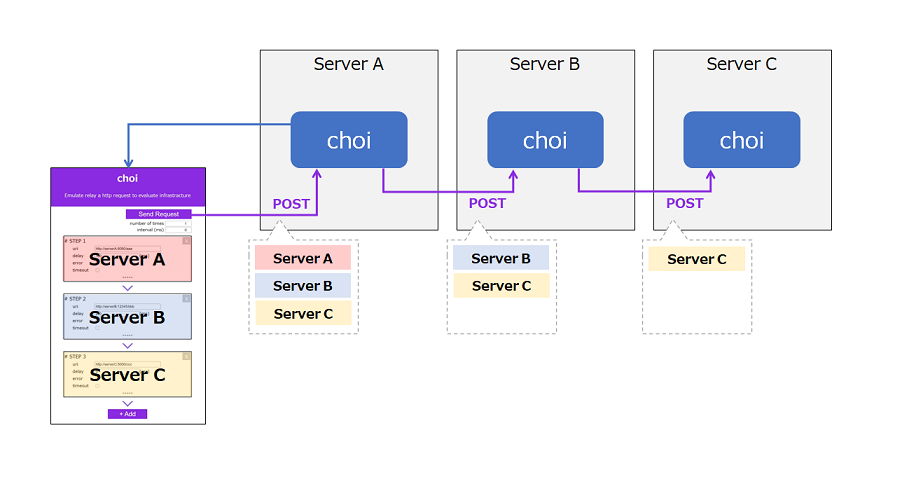
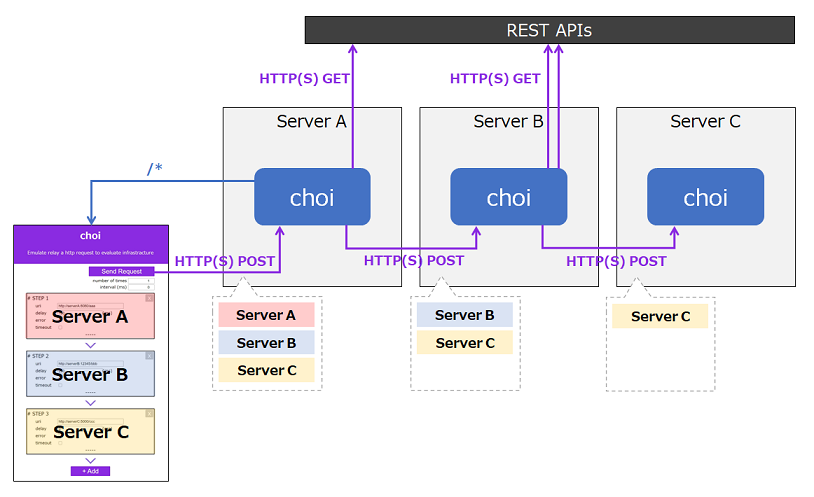
enable to use HTTPS and enable to call REST API from choi

diff --git a/public/setting.html b/public/setting.html
@@ -11,13 +11,13 @@
 <body>
   <div class="head">
     <h1>choi</h1>
-    <p>Emulate relay a http request to evaluate infrastracture</p>
+    <p>Emulate your App to relay a http(s) request to evaluate infrastracture</p>
   </div>
   <!-- Vue html -->
   <div class= "main" id="app">
     <!-- Send Request button and params -->
     <div class="startbuttonarea">
-      <span>{{statusMessage}}</span>
+      <span v-if="totalTime" class="resultcolor">{{totalTime}}</span><span>{{statusMessage}}</span>
       <button v-if="processing" class="startbutton"><div class="loader"></div></button>
       <button v-if="!processing" class="startbutton" v-on:click="startChoi">Send Request</button>
       <div class="paramtitle">number of times <input class="paramfield" type="number" v-model="param.num" placeholder="the number of times"/></div>
@@ -32,13 +32,40 @@
           <span class="deletebuttonarea"><button class="deletebutton" v-on:click="deleteRelay(relay.id)">x</button></span>
         </div>
         <table class="relaysetting">
-          <tr><td class="urltitle">uri</td><td><input class="urlinput" v-model="relay.url" placeholder="http://host:port/path"/></td></td></tr>
-          <tr v-if="!relay.timeout"><td>delay</td><td><input v-model="relay.delay" placeholder="delay time ex) 3000"/>(ms)</td></td></tr>
-          <tr v-if="!relay.timeout"><td>error</td><td><input name="error" type="checkbox" v-model="relay.error"/></td></td></tr>
-          <tr v-if="relay.error"><td>&nbsp;</td><td>code <input name="errorcode" type="number" v-model="relay.code"/></td></td></tr>
-          <tr v-if="!relay.error"><td>timeout</td><td><input name="timeout" type="checkbox" v-model="relay.timeout"/></td></td></tr>
+          <tr><td class="urltitle">uri</td><td colspan=5><input class="urlinput" v-model="relay.url" placeholder="ex) http://host:port/path"/></td></td></tr>
+          <tr>
+            <td>options</td>
+            <td><button class="addcallbutton" v-on:click="addGETfiled(relay.id)">+ call GET</button>,</td> 
+            <td v-if="!relay.timeout">delay:<input class="numberinput" v-model="relay.delay" placeholder="ex) 200"/>(ms),</td>
+            <td v-if="!relay.timeout">error:<input name="error" type="checkbox" v-model="relay.error"/><span v-if="!relay.error">,</span></td>
+            <td v-if="relay.error">code:<input class="numberinput" name="errorcode" type="number" v-model="relay.code"/></td>
+            <td v-if="!relay.error">timeout:<input name="timeout" type="checkbox" v-model="relay.timeout"/></td>
+          </tr>
+          <tr>
+            <td>&nbsp;</td>
+            <td colspan="4">
+              <table class="callgetborder" v-for="i of relay.getcalls" :key="i">
+                <tr>
+                  <td>GET url</td><td colspan=3><input class="urlinput" v-model="relay.getcallurls[i-1]" placeholder="ex) http://169.254.169.254/metadata/instance?api-version=2021-01-01"/></td>
+                </tr>
+                <tr>
+                  <td>headers</td><td colspan=3><textarea class="urlinput" rows="3" v-model="relay.getcallheaders[i-1]" placeholder="ex) {Metadata:True}"></textarea></td>
+                </tr>
+                <tr>
+                  <td class="callresult" v-if="!relay.getcallresults[i-1]" colspan=5>-----</td>
+                  <td calss="callresult" v-if="relay.getcallresults[i-1]" colspan=5>
+                    <details class="callresultarea">
+                      <summary class="resultcolor">call result</summary>
+                      <div class="callresultdetail"><pre class="prefield">{{JSON.stringify(relay.getcallresults[i-1],null,"\t")}}</pre></div>
+                    </details>
+                  </td>
+                </tr>
+              </table>
+            </td>
+          </tr>
         </table>
-        <div v-bind:id="relay.id" class="result">{{relay.result}}</div>
+        <div v-if="!relay.result" class="result">-----</div>
+        <div v-if="relay.result" class="result resultcolor">{{relay.result}}</div>
       </div>
       <div class="arrow"></div>
     </div>
@@ -53,10 +80,11 @@
     data: {
       id: 3, //initial settings use 1,2
       relays:[
-        {id: 1, url: "", delay: "", error: false, code: 500, timeout: false, result:"-----"},
-        {id: 2, url: "", delay: "", error: false, code: 500, timeout: false, result:"-----"},
+        {id: 1, url: "", delay: "", error: false, code: 500, timeout: false, result:"", getcalls:0, getcallurls:[], getcallheaders:[], getcallresults:[]},
+        {id: 2, url: "", delay: "", error: false, code: 500, timeout: false, result:"", getcalls:0, getcallurls:[], getcallheaders:[], getcallresults:[]},
       ],
       param:{num:1,interval:1000},
+      totalTime:"",
       statusMessage:"",
       errorMessage:"",
       processing:false, // to show loading
@@ -64,7 +92,7 @@
     methods:{
       // Add relay setting
       addRelay: function(){
-        this.relays.push({id: this.id, url: "", delay: "", error: false, code: 500, timeout: false, result:"-----"})
+        this.relays.push({id: this.id, url: "", delay: "", error: false, code: 500, timeout: false, result:"", getcalls:0, getcallurls:[], getcallresults:[]})
         this.id++;
       },
       // Send request
@@ -79,12 +107,20 @@
 
         this.processing=true;
         let count=0;
+        this.totalTime = "";
         this.statusMessage = "";
         this.errorMessage = "";
+        const startTime=0;
 
         //post request with interval
         const intervalId = setInterval(function(){
+          this.relays.filter((relay)=>{
+            relay.result = "";
+            relay.getcallresults = [];
+          })
+          this.startTime = Date.now()
           let first = this.relays[0]
+
           fetch(first.url,{
             method:'POST',
             headers:{
@@ -94,6 +130,7 @@
           })
           .then(response => response.json())
           .then(data=>{
+            this.totalTime = "Totaltime " + (Date.now()-this.startTime) +"(ms), "
             this.statusMessage = "Succuess "+count+"/"+this.param.num
             // Show the result for each setting
             for(i in data){
@@ -101,13 +138,10 @@
               for(j in this.relays){
                 if(result.id === this.relays[j].id){
                   this.relays[j].result = "return:"+result.code+", elapsed time:"+result.elapsed+"(ms)"
+                  this.relays[j].getcallresults = result.callresults
                   if(result.error){
                     this.errorMessage = result.error
                   }
-                  document.getElementById(result.id).style.background = "#EE82EE";
-                  setTimeout(()=>{
-                    document.getElementById(result.id).style.background = "#FFF"
-                  },300);
                 }
               }
             }
@@ -127,6 +161,14 @@
       // Delete a relay setting
       deleteRelay: function(deleteid){
         this.relays = this.relays.filter(relay=> relay.id != deleteid)
+      },
+      addGETfiled:function(parentId){
+        for(let i in this.relays){
+          if(parentId===this.relays[i].id){
+            this.relays[i].getcalls += 1;
+            break;
+          }
+        }
       }
     }
   });

diff --git a/app.js b/app.js
@@ -5,7 +5,6 @@ var cookieParser = require('cookie-parser');
 var logger = require('morgan');
 
 var app = express();
-
 app.use(logger('dev'));
 app.use(express.json());
 app.use(express.urlencoded({ extended: false }));
@@ -13,6 +12,7 @@ app.use(cookieParser());
 app.use(express.static(path.join(__dirname, 'public')));
 
 global.fetch = require('node-fetch')
+
 const _sleep = (ms) => new Promise((resolve) => setTimeout(resolve, ms));
 
 app.use('/',async function (req,res,next){
@@ -21,10 +21,27 @@ app.use('/',async function (req,res,next){
         res.sendFile(__dirname+'/public/setting.html')
     }else{
         let startTime = Date.now()
-        returnMessages = []
 
         var relays = req.body
         var thisrequest = relays.shift() //remove this request from this relay
+
+        //call GET
+        let callresults = []
+        for (let i=0;i<thisrequest.getcalls;i++){
+            let callstatus = ""
+            let callresult = ""
+            try{
+                const response = await fetch(thisrequest.getcallurls[i],{
+                    method:'GET',
+                    headers:thisrequest.getcallheaders[i]
+                })
+                callstatus = response.status
+                callresult = await response.json()
+            }catch(err){
+                callresult = {error:err.message}
+            }
+            callresults.push(callresult)
+        }
 
         //sleep
         if(thisrequest.delay){
@@ -40,9 +57,9 @@ app.use('/',async function (req,res,next){
         }else{
 
             let error = ""
+            let data  = ""
             if(relays.length > 0){
                 let nextrequest = relays[0]
-
                 try{
                     const response = await fetch(nextrequest.url,{
                         method:'POST',
@@ -52,9 +69,9 @@ app.use('/',async function (req,res,next){
                         body:JSON.stringify(relays)
                     })
 
-                    //nothing to do
-                    const data = await response.json()
+                    //response from next choi
                     const status = response.status
+                    data = await response.json()
                 }catch(err){
                     error = err
                 }
@@ -64,10 +81,9 @@ app.use('/',async function (req,res,next){
             if(!thisrequest.error){
                 code = 200
             }
-            if(error){
-                code = 500
-            }
-            returnMessages.unshift({id:thisrequest.id,url:thisrequest.url,code:code,elapsed:Date.now()-startTime,error:error.message})
+
+            let returnMessages = data ? data: []
+            returnMessages.unshift({id:thisrequest.id,url:thisrequest.url,code:code,elapsed:Date.now()-startTime,error:error.message,callresults:callresults})
             res.json(returnMessages)
         }
     }

diff --git a/public/stylesheets/style.css b/public/stylesheets/style.css
@@ -5,7 +5,7 @@ body {
 }
 
 .head {
-  padding: 10px 0px 10px 0px;
+  padding: 0.1em 0em 0.1em 0em;
   width :100%;
   text-align: center;
   background-color: blueviolet;
@@ -13,8 +13,9 @@ body {
 }
 
 .main {
-  padding: 10px 0px 10px 0px;
-  width :60%;
+  padding: 15px 0px 10px 0px;
+  width :70%;
+  min-width: 600px;
   margin:auto;
   text-align: center;
   background-color: #FFF;
@@ -22,8 +23,8 @@ body {
 
 .relay {
   margin:auto;
-  width: 60%;
-  min-width: 400px;
+  width: 70%;
+  min-width: 600px;
 }
 
 .relayborder{
@@ -31,7 +32,28 @@ body {
   border-width: 2px;
   border-color: #000;
   margin-bottom: 0px;
+}
 
+.resultcolor{
+  background-color: #fff462;
+}
+
+.callgetborder{
+  width:450px;
+  border-style: solid;
+  border-width: 2px;
+  border-color: #BF9DE0;
+  margin-top: 5px;
+  margin-bottom: 5px;
+}
+
+.callresultdetail{
+  font-size: 12px;
+  width:450px;
+}
+
+.prefield{
+  width:450px;
 }
 
 .relaytitle{
@@ -67,15 +89,29 @@ body {
 }
 
 .urlinput{
-  width:100%;
-  min-width:250px;
+  width:300px;
+}
+
+.numberinput{
+  width:70px;
+}
+
+.addcallbutton{
+  color:#FFF;
+  background-color:blueviolet;
+  border: none;  /* 枠線を消す */
+  font-size: 16px;
+}
+
+.addcallbutton:active{
+  background-color: violet;
 }
 
 .startbuttonarea{
   text-align: right;
   margin:auto;
-  width: 60%;
-  min-width: 400px;
+  width: 70%;
+  min-width: 600px;
   margin-bottom: 10px;
 }
 
@@ -125,6 +161,10 @@ body {
 }
 
 .result{
+  text-align: center;
+}
+
+.callresult{
   text-align: center;
 }
 

diff --git a/README.md b/README.md
@@ -1,24 +1,36 @@
 ## choi
 
 The purpose of this application is that to evaluate your infrastracture such like cloud-VMs, containers and k8s.
-It's easy to deploy cloud infrastraucre but it's still necesarry to prepare application or middleware to check operations or network on the infrastracture.
+It's easy to create cloud infrastraucre but it's still necesarry to prepare application or middleware to check operations or network on the infrastracture from the view of application layer.
 
-choi is a super simple web-application using vuejs and node-express and this app can easily relay http request like below.
+choi (check our infrastracture) is a super simple web-application using vuejs and node-express and this app can easily relay http(s) request and call external api like below.
 
 ![choi overview](./choi_overview.png)
 
-## how to use
+## how to setup
 
-1. install nodejs on your server/container
+for each machine/vm/container
+1. install nodejs on your machine/vm/container
 2. clone this repository
 3. yarn install
 4. yarn start
 
-then you can access a choi page at this server (http://localhost:3000) , any path available /*
+then you can access a choi page at this server (default: http://localhost:3000) , any path available /*
 
 if you want to change PORT, please note your PORT in .env file
 ````
-PORT=5000
+PORT=3001
+````
+
+if you want to use HTTPS, please add HTTPS configuration(PORT,cert file...) in .env file like below.
+
+*Not recommend, but if you want to use self signed certification, please use NODE_TLS_REJECT_UNAUTHORIZED=0 in this file.
+````
+...
+HTTPS_PORT=5000
+HTTPS_PEM=./key/private_key.pem
+HTTPS_CRT=./key/server.crt
+NODE_TLS_REJECT_UNAUTHORIZED=0
 ````
 
 ### sample dockerfile
@@ -37,7 +49,7 @@ RUN yarn install
 
 EXPOSE 3000
 
-CMD ["/choi/dumb-init","yarn","start"]
+CMD ["./dumb-init","yarn","start"]
 ````
 
 ### for Windows user
